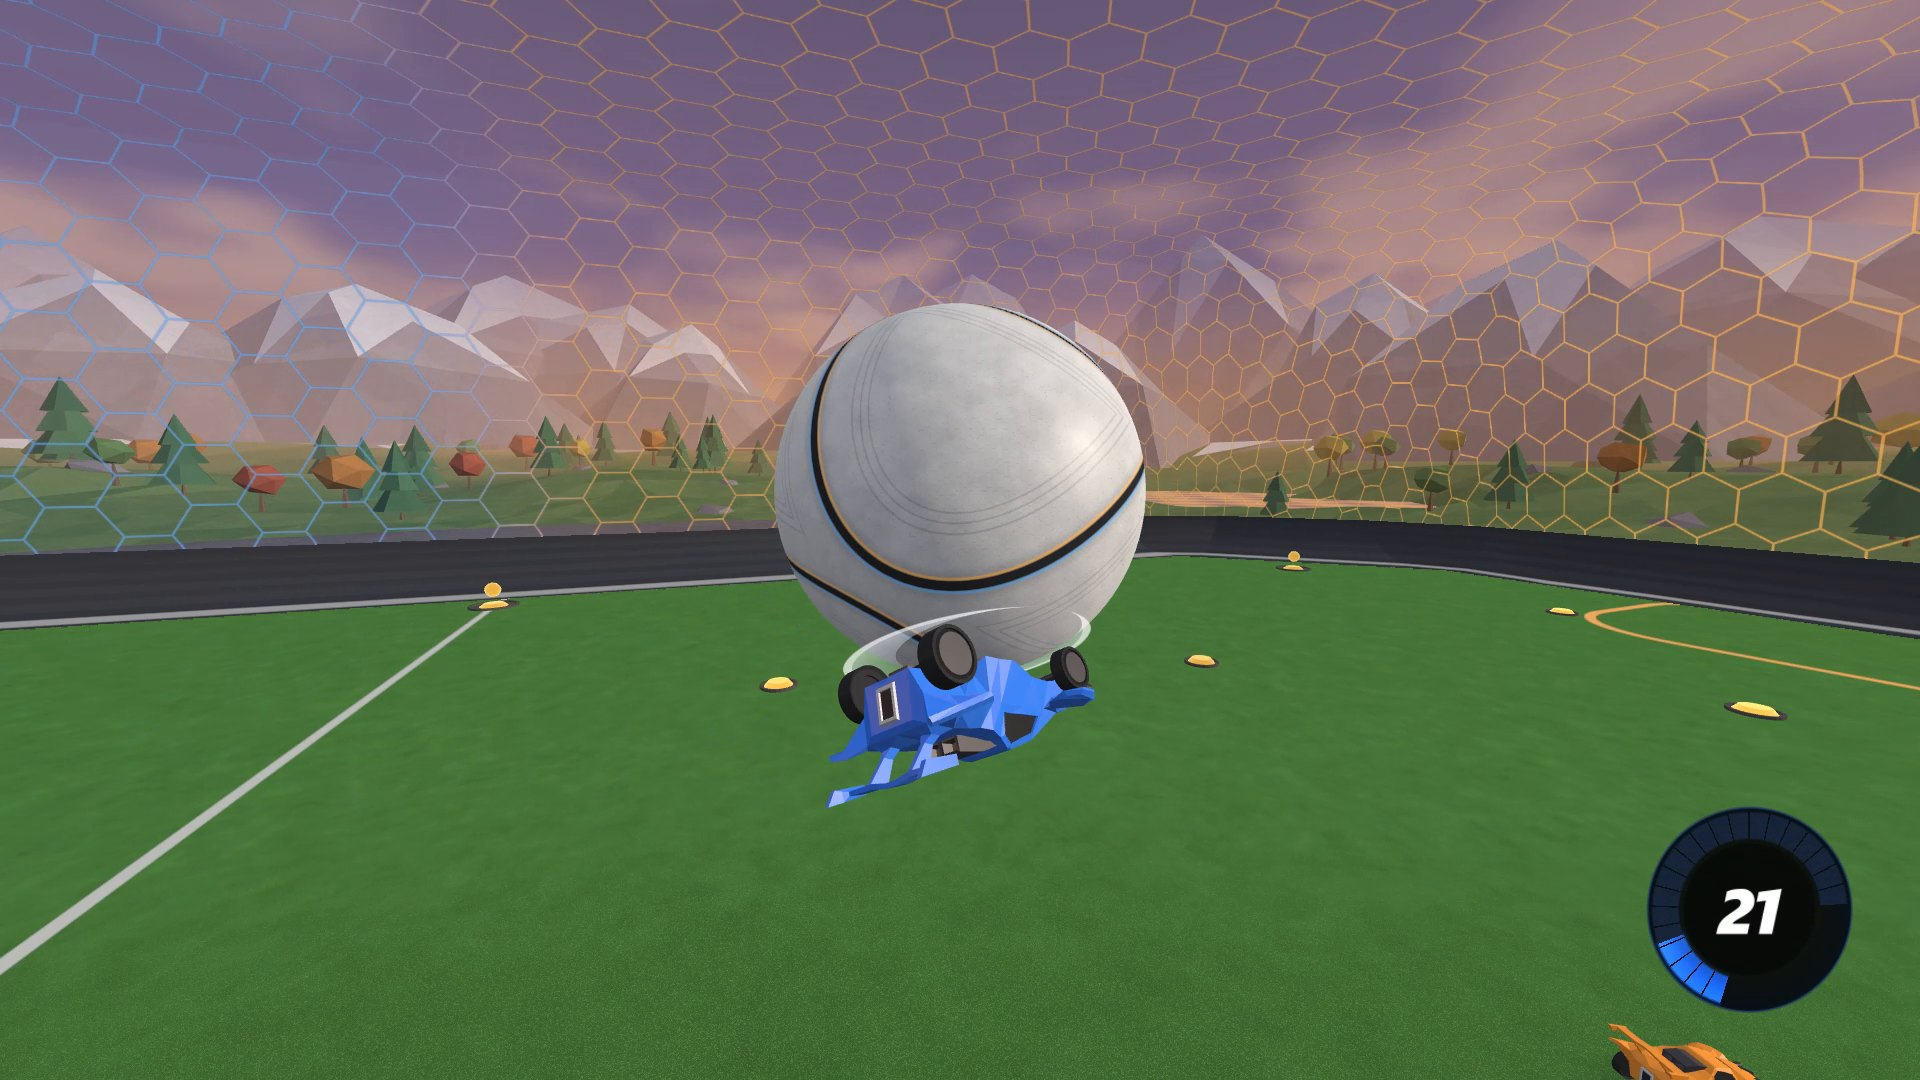
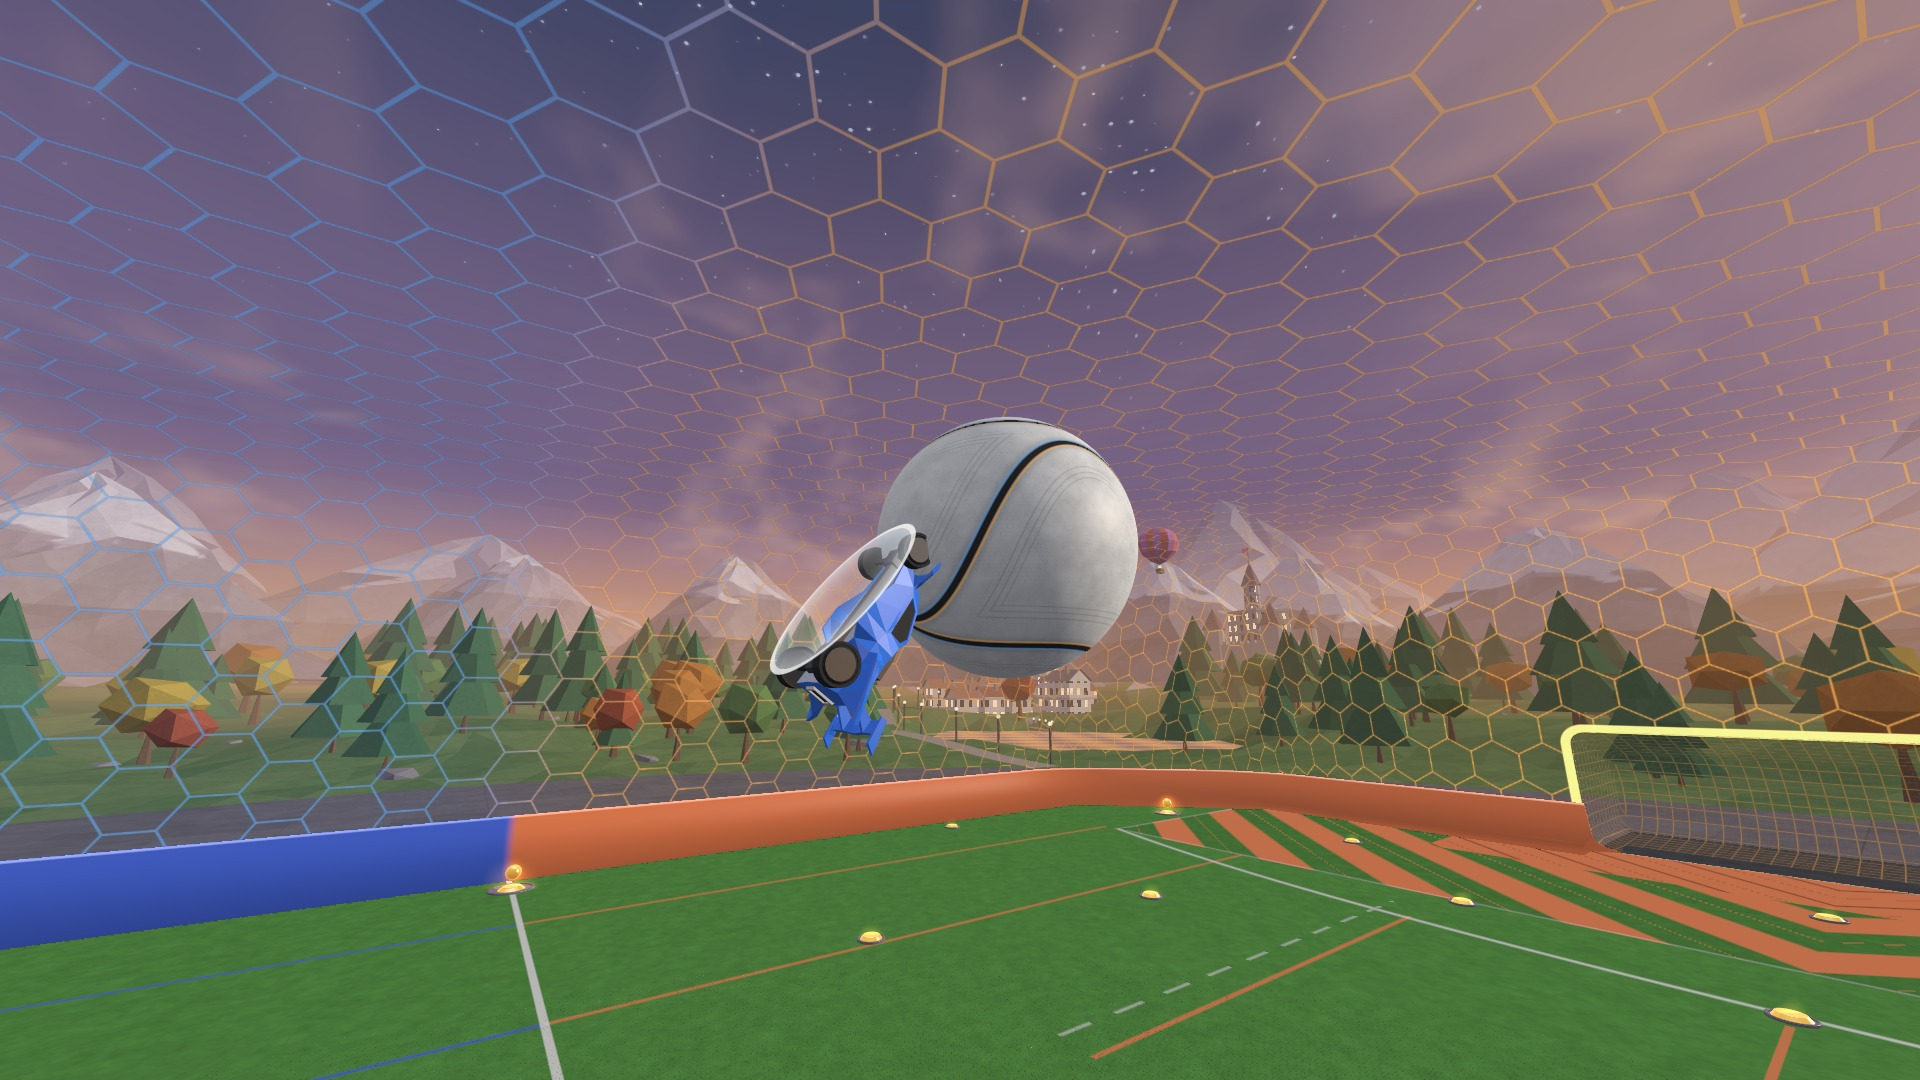
README: new screenshots (High, 1080p), Settings + Performance sections, up-to-date features, developer tools
- docs/*.jpg re-rendered with tools/readme_shots.py (this public build, High preset, 1920x1080, four maps)
- Settings: camera / audio / graphics, the quality presets and every visual-quality slider and toggle
- Performance: High stays above 60 fps at 1080p on an integrated Radeon 780M (measured)
- Features: current boost, supersonic trail, goal explosion, 3D ball trail, real-time shadows

diff --git a/tools/readme_shots.py b/tools/readme_shots.py
@@ -1,0 +1,146 @@
+r"""readme_shots.py -- render the README screenshots (docs/*.jpg) headless, at High settings.
+
+  python tools/readme_shots.py [--out docs] [--size 1920x1080] [--only boost,goal]
+
+Each shot is a short scripted scene fed frame by frame like a live stream (so trails, boost smoke and effects build
+up naturally), then one frame is saved as a JPEG.
+"""
+import argparse
+import math
+import os
+import sys
+import time
+
+HERE = os.path.dirname(os.path.abspath(__file__))
+ROOT = os.path.dirname(HERE)
+sys.path.insert(0, os.path.join(ROOT, "src"))
+os.environ["RSV_CLIP_DISABLE"] = "1"
+os.environ.setdefault("RSV_SOUND", "0")
+os.environ.setdefault("RSV_MSAA", "8")
+
+ap = argparse.ArgumentParser()
+ap.add_argument("--out", default=os.path.join(ROOT, "docs"))
+ap.add_argument("--size", default="1920x1080")
+ap.add_argument("--only", default="")
+args = ap.parse_args()
+os.makedirs(args.out, exist_ok=True)
+
+import moderngl
+from PIL import Image
+import main as rsv
+import state_manager
+import events as rl_events
+
+W, H = (int(x) for x in args.size.split("x"))
+ctx = moderngl.create_standalone_context(require=330)
+r = rsv.RSVRenderer()
+r.init_gl(ctx)
+r.config.apply_preset("high")
+screen = ctx.framebuffer(color_attachments=[ctx.texture((W, H), 4)], depth_attachment=ctx.depth_renderbuffer((W, H)))
+
+
+def car(team, pos, fwd=(0, 1, 0), up=(0, 0, 1), vel=(0, 0, 0), boosting=False, boost=60):
+    return {"team_num": team, "phys": {"pos": list(pos), "vel": list(vel), "ang_vel": [0, 0, 0],
+                                       "forward": list(fwd), "up": list(up)},
+            "boost_amount": boost, "is_boosting": boosting, "on_ground": pos[2] < 30, "is_demoed": False}
+
+
+def frame():
+    r.paint(W, H, screen, clip_capture=False)
+    ctx.finish()
+    return Image.frombytes("RGBA", (W, H), screen.read(components=4)).transpose(Image.FLIP_TOP_BOTTOM).convert("RGB")
+
+
+def shot(name, mapname, scene, at, events=(), spectate=-1, touch_team=0):
+    """scene(t) -> (ball_pos, ball_vel, cars, cam) with cam = (eye, target) or None (spectate camera)."""
+    if args.only and name not in args.only.split(","):
+        return
+    r.set_map(mapname, save=False)
+    r.spectate_idx = spectate
+    evs = sorted(events, key=lambda e: e[0])
+    t0 = time.time()
+    im = None
+    while True:
+        t = time.time() - t0
+        bp, bv, cars, cam = scene(t)
+        j = {"gamemode": "soccar", "ball_phys": {"pos": list(bp), "vel": list(bv), "ang_vel": [0, 0, 0]},
+             "cars": cars, "boost_pad_states": [True] * 34}
+        with state_manager.global_state_mutex:
+            st = state_manager.global_state_manager.state
+            st.read_from_json(j); st.read_from_json(j)
+            st.recv_time = time.time(); st.recv_interval = 1 / 120
+        rl_events.g_detector.last_touch_team = touch_team
+        state_manager.pose_cam = cam
+        while evs and t >= evs[0][0]:
+            ev = dict(evs.pop(0)[1]); ev["t"] = time.time()
+            r._handle_event(ev, spectate)
+        im = frame()
+        if t >= at:
+            break
+    im.save(os.path.join(args.out, name + ".jpg"), quality=92)
+    print("saved", name, flush=True)
+
+
+# 1. Boosting towards the ball (Parc de Paris), the real ball cam behind the car
+def boost_scene(t):
+    y = -3200.0 + 1500.0 * t
+    c = car(0, (-300.0 + 60.0 * t, y, 17.0), fwd=(0.04, 1, 0), vel=(60.0, 1500.0, 0.0), boosting=True, boost=64)
+    mate = car(0, (-1300.0, y - 900.0, 17.0), vel=(0, 1400, 0))
+    opp = car(1, (500.0, 1200.0, 17.0), fwd=(0, -1, 0), vel=(0, -900, 0))
+    cp = c["phys"]["pos"]
+    cam = ((cp[0] - 330.0, cp[1] - 520.0, 170.0), (cp[0] + 90.0, cp[1] + 380.0, 60.0))
+    return (100.0, 900.0, 93.0), (0, 0, 0), [c, mate, opp], cam
+
+
+shot("boost", "paris", boost_scene, 1.1, spectate=0)
+
+
+# 2. Flip reset (Evening Valley): the car's wheels on the underside of the ball, seen from the side
+_s = 1.0 / math.sqrt(2.0)
+
+
+def reset_scene(t):
+    ball = (0.0, 0.0, 800.0 + 300.0 * t)
+    c = car(0, (0.0, -120.0, 740.0 + 300.0 * t), fwd=(0, 0.6, 0.8), up=(0, 0.8, -0.6), vel=(0, 200, 300))
+    return ball, (0, 200, 300), [c], ((-360.0, -300.0, 700.0 + 300.0 * t), (0.0, -40.0, 800.0 + 300.0 * t))
+
+
+shot("flipreset", "valley", reset_scene, 0.63,
+     events=[(0.60, {"kind": "flipreset", "pos": (0.0, -80.0, 920.0), "car": 0, "team": 0, "up": (0, 0.8, -0.6),
+                     "car_pos": (0.0, -120.0, 920.0), "ball_pos": (0.0, 0.0, 980.0), "normal": (0.0, -0.8, -0.6)})])
+
+
+# 3. Demolition (Forbidden Temple)
+def demo_scene(t):
+    hit = car(0, (-160.0, -60.0, 17.0), fwd=(_s, _s, 0), vel=(1500, 1500, 0), boosting=True)
+    return (600.0, 2200.0, 93.0), (0, 0, 0), [hit], ((-760.0, -700.0, 260.0), (0.0, 20.0, 110.0))
+
+
+shot("demo", "temple", demo_scene, 0.5,
+     events=[(0.38, {"kind": "demo", "pos": (0.0, 60.0, 17.0), "car": 1, "team": 1, "vel": (0, 800, 0)})])
+
+
+# 4. Overview (Forbidden Temple): a shot flying across the pitch with its trail, cars chasing
+def overview_scene(t):
+    a = t * 1.3
+    bp = (-2600.0 + 2800.0 * t, -1200.0 + 1400.0 * t, 250.0 + 700.0 * math.sin(a))
+    bv = (2800.0, 1400.0, 910.0 * math.cos(a))
+    cars = [car(0, (-2900.0 + 1900.0 * t, -1600.0 + 900.0 * t, 17.0), fwd=(0.9, 0.44, 0), vel=(1900, 900, 0),
+                boosting=True),
+            car(1, (1800.0 - 800.0 * t, 900.0 - 300.0 * t, 17.0), fwd=(-0.94, -0.35, 0), vel=(-800, -300, 0)),
+            car(1, (2600.0, 3200.0, 17.0), fwd=(-0.6, -0.8, 0)),
+            car(0, (-3400.0, -3800.0, 17.0), fwd=(0.5, 0.86, 0))]
+    return bp, bv, cars, ((-2100.0, 2000.0, 650.0), (-450.0, -250.0, 450.0))
+
+
+shot("overview", "temple", overview_scene, 1.15, touch_team=0)
+
+
+# 5. Goal (Parc de Paris): the explosion bursting out of the orange goal, the scorer in front
+def goal_scene(t):
+    sc = car(0, (-350.0, 3600.0, 17.0), fwd=(0.2, 1, 0), vel=(0, 600, 0))
+    return (0.0, 5300.0, 250.0), (0, 0, 0), [sc], ((-900.0, 2300.0, 500.0), (0.0, 5000.0, 300.0))
+
+
+shot("goal", "paris", goal_scene, 0.72,
+     events=[(0.30, {"kind": "goal", "pos": (0.0, 5300.0, 250.0), "team": 0})])

diff --git a/src/fx.py b/src/fx.py
@@ -165,7 +165,7 @@ void main() {
     // CoreColor (2.5, 1, 0.125) x Brightness (HDR) through an exposure tone curve like the game's: the thick middle
     // over-exposes to pale yellow, the thin wisps stay deep orange
     float inner = smoothstep(0.1, 0.9, body);
-    vec3 hdr = vec3(2.5, 1.0, 0.125) * v_bright * (0.25 + 1.8 * inner) * (0.8 + 0.4 * nf);
+    vec3 hdr = vec3(2.5, 1.0, 0.125) * v_bright * (0.6 + 1.5 * inner) * (0.8 + 0.4 * nf);
     vec3 col = 1.0 - exp(-hdr * 1.05);
     f_color = vec4(col * a, a * 0.8);                  // premultiplied "over", partly additive (glow)
 }

diff --git a/README.md b/README.md
@@ -11,13 +11,14 @@ This version ships **without any sound files or Rocket League game files**: ever
 from RocketSimVis or is generated procedurally. The sound system is all there, though: drop your own sound
 files into `data/sounds/` and they play (see [Sound](#sound)).
 
-<p align="center"><img src="docs/boost.jpg" alt="Boosting towards the ball" width="100%"></p>
+<p align="center"><img src="docs/boost.jpg" alt="Boosting towards the ball in Parc de Paris" width="100%"></p>
 <p align="center">
-  <img src="docs/flipreset.jpg" alt="Flip reset indicator" width="49%">
-  <img src="docs/demo.jpg" alt="Demolition" width="49%">
-  <img src="docs/goal.jpg" alt="Goal" width="49%">
-  <img src="docs/overview.jpg" alt="Arena overview" width="49%">
+  <img src="docs/flipreset.jpg" alt="Flip reset indicator in Evening Valley" width="49%">
+  <img src="docs/demo.jpg" alt="Demolition in Forbidden Temple" width="49%">
+  <img src="docs/goal.jpg" alt="Goal explosion in Parc de Paris" width="49%">
+  <img src="docs/overview.jpg" alt="Forbidden Temple arena with a ball trail" width="49%">
 </p>
+<p align="center"><sub>All screenshots: High preset, 1920x1080, rendered by <code>tools/readme_shots.py</code>.</sub></p>
 
 ## Installation (Windows)
 
@@ -63,17 +64,42 @@ Run several instances side by side with `RSV_PORT=<port>`.
 | H | show/hide the top-left panel (Edit Settings: camera, audio, graphics) |
 | ← ↑ → ↓ | map: ← Forbidden Temple, ↑ Evening Valley, → Parc de Paris, ↓ Orbit (remembered for the next start) |
 
-**Graphics** (H → Edit Settings → Graphics, applied live and remembered):
-- **Quality preset**: Low / Medium / High set everything below at once (Low is made for integrated GPUs, High maxes
-  everything); changing any single setting afterwards shows "Custom".
-- **Visual quality** sliders: shadow quality, crowd size, map detail, grass, particles and render resolution (70 / 85 / 100%).
-- Toggles for shadows, the ball trail and the ball circles; anti-aliasing (MSAA off/2x/4x/8x); resolution (Balanced
-  caps the 3D scene at 2.1 MP and upscales it: pick Native on a 1440p/4K screen if it looks soft, or Supersampled
-  for extra smoothness); distant detail; VSync; frame-rate cap.
-
 The 1/2/3 and S/D keys are requests sent to whatever is streaming the game (a small UDP side channel, see
 [networking-format.md](networking-format.md)). A sender that doesn't handle them keeps working; the visualizer
 just says nobody answered.
+
+## Settings
+
+H opens the top-left panel; **Edit Settings** has three groups. Everything applies live and is remembered
+(`src/rsv_settings.json`).
+
+- **Camera**: field of view, distance, height, angle, stiffness and ball-cam transition speed, with the same names,
+  ranges and meaning as Rocket League's own camera settings, so you can copy yours over.
+- **Audio**: master volume and a slider per sound category (only shown when sound files are installed).
+- **Graphics**:
+  - **Quality preset**: **Low**, **Medium** or **High** sets every visual-quality slider and the anti-aliasing at once.
+    Changing any one of them afterwards switches the preset to **Custom**.
+  - **Visual quality** sliders (Low / Medium / High): **shadow quality** (resolution and softness of the car and ball
+    shadows), **crowd** (how many fans fill the stands), **map detail** (how much of the scenery is drawn; Low and
+    Medium also use a pre-rendered sky), **grass** (Off / Low / Medium / High: 3D grass blades near the camera),
+    **particles** (how many sparks, smoke puffs and debris effects spawn) and **render resolution** (70 / 85 / 100%
+    of the window's resolution for the 3D scene; the HUD always stays sharp).
+  - **Toggles**: shadows, ball trail, ball circles (the marker on the ground under the ball).
+  - **Anti-aliasing**: MSAA off / 2x / 4x / 8x.
+  - **Resolution**: Balanced (the 3D scene is capped at 2.1 MP, about 1080p, and upscaled: cheap on big screens),
+    Native (full window resolution: pick it on a 1440p/4K screen if Balanced looks soft), or Supersampled 1.5x / 2x.
+  - **Distant detail** (Smooth, or Sharp at the cost of some shimmer), **VSync**, and a **frame-rate cap**
+    (monitor refresh, 60, 120, 144, 240 or unlimited).
+
+## Performance
+
+- **High** (everything maxed, 8x MSAA) stays **above 60 fps at 1080p even on an integrated Radeon 780M**: about
+  8 ms of GPU time per frame on Parc de Paris, the heaviest map, and never more than 12.4 ms (60 fps = 16.7 ms), with
+  a training run using the same machine.
+- **Low** is made for integrated GPUs on high-refresh screens; **Medium** sits in between.
+- On a discrete GPU, High runs at high refresh rates; there the limit is the CPU (the renderer is Python).
+- It shares the GPU with whatever else runs: `RSV_FPS=<n>` caps its frame rate if you want to leave more of it to
+  training.
 
 ## Sound
 
@@ -89,27 +115,32 @@ there are git-ignored, so they never get committed by accident.
 - **Maps** (arrow keys, remembered): the evening valley below (with a lakeside village, a castle, a windmill and
   hot-air balloons); a Forbidden Temple-style pink dusk with karst
   peaks, pagodas, a paifang gate, cherry trees and lanterns; a Parc de Paris-style noon with two curved blue / orange stands under
-  sweeping floodlit roofs, a formal garden with a golden-sphere fountain and graffiti, and the Eiffel Tower lit in blue
+  sweeping floodlit roofs, a formal garden with a golden-sphere fountain and graffiti, and the Eiffel Tower
   down the Champ de Mars; and a star cruiser in orbit, the arena on its flight deck between armoured hull
   flanks (stars of many shades, the Milky Way,
   a ringed gas giant, a moon, the planet below, an asteroid belt, a station; no crowd). Each has its own
   sky, light and field style, and a crowd of eggs: about 30% of the fans are always cheering; after a save both
   teams' fans jump on their seats, after a goal only the scoring team's (in Paris each stand is one team's). A save =
   a defender's touch on a ball that was going in.
-- **Arena**: see-through hexagon walls and ceiling, a grass pitch with Rocket League-style team markings (striped
-  zones in front of each goal, split centre circle, team lanes), team-coloured floor-to-wall curves, translucent team
-  nets, soft shadows, a low-poly valley with mountains, trees and a lake under an evening sky.
+- **Arena**: see-through hexagon walls and ceiling, a pitch with 3D grass and Rocket League-style team markings
+  (striped zones in front of each goal, split centre circle, team lanes), smooth team-coloured floor-to-wall curves,
+  translucent team nets, and real-time soft shadows of the cars and the ball, cast from each map's sun.
 - **Cars and ball**: team-painted cars, a two-seam ball that darkens as it crosses the goal line, shiny boost pads
   that stay black, then whiten from the edge in as they recharge, with the orb coming back as a blurry ghost that
   sharpens into gold just before it respawns, and Rocket League's white ball marker on the ground under the ball
   (an outer ring the size of the ball and an inner ring of 4 arcs that shrinks to 4 dots as the ball rises).
 - **Ball trail**: like Rocket League, a real 3D tube in the colour of the last team to touch the ball, shown above
   82 kph, white right behind the ball, soft at the edges and fading out over 1 s.
-- **Effects**: an Alpha Boost-style boost (two streams of flame puffs), supersonic trails, jump and flip flashes, sparks where a car's body (not its wheels)
-  hits the ball, the arena or another car, faint streaks from the car's corners while it flips, demolition
-  explosions, goal bursts, boost pad
-  pickups, a boost gauge, a Rocket League-style flip-reset indicator (a white disc under the car's wheels,
-  as long as the car, for 120 ms), and golden "BLUE SCORED!" / "ORANGE SCORED!" text on goals.
+- **Effects**:
+  - **Boost**: Alpha Boost-style, two streams of golden flame puffs that appear a little behind the car and grow,
+    with small sparkles.
+  - **Supersonic**: a thin glowing violet trail from each rear wheel, plus speed lines.
+  - **Goals**: an explosion in the scoring team's colour (a white-hot flash, shock spheres, a ground ring and a
+    plasma cloud bursting out of the goal), and golden "BLUE SCORED!" / "ORANGE SCORED!" text.
+  - **Hits and moves**: jump and flip flashes, sparks where a car's body (not its wheels) hits the ball, the arena
+    or another car, faint streaks from the car's corners while it flips, demolition explosions.
+  - **Pickups and flip resets**: soft 3D glow domes on boost pad pickups, a boost gauge, and a Rocket League-style
+    flip-reset indicator (a white disc under the car's wheels, as long as the car, for 120 ms).
 - **Game events** reconstructed from the state stream: jumps, double jumps, flips (including wall dashes),
   flip resets (only when the reset is really taken on the ball), ball touches, bounces (floor, walls, posts
   and crossbar), car body impacts, bumps, demos and goals.
@@ -118,6 +149,15 @@ there are git-ignored, so they never get committed by accident.
 - **Clips**: C saves the last 12 s by re-rendering them offscreen at 1080p60 (hardware-encoded with NVIDIA NVENC or AMD AMF when available, else on the CPU),
   so recording never slows the live view; installed sounds are mixed in. A top-left indicator shows
   "Clipping..." with a progress bar, then "Clip saved!".
+
+## Developer tools
+
+All in `tools/`, all headless (no window):
+
+- `fx_gallery.py --out <dir> [--only goal,boostdrive] [--map paris]`: close-up contact sheets of every effect.
+- `headless_test.py --out <dir>`: a scripted 2v2 scene with screenshots, per-frame timing and the event log.
+- `readme_shots.py`: re-renders the README screenshots in `docs/`.
+- `gpu_contention_bench.py`: how much the vis slows down a CUDA training workload (needs PyTorch).
 
 ## Credits
 
